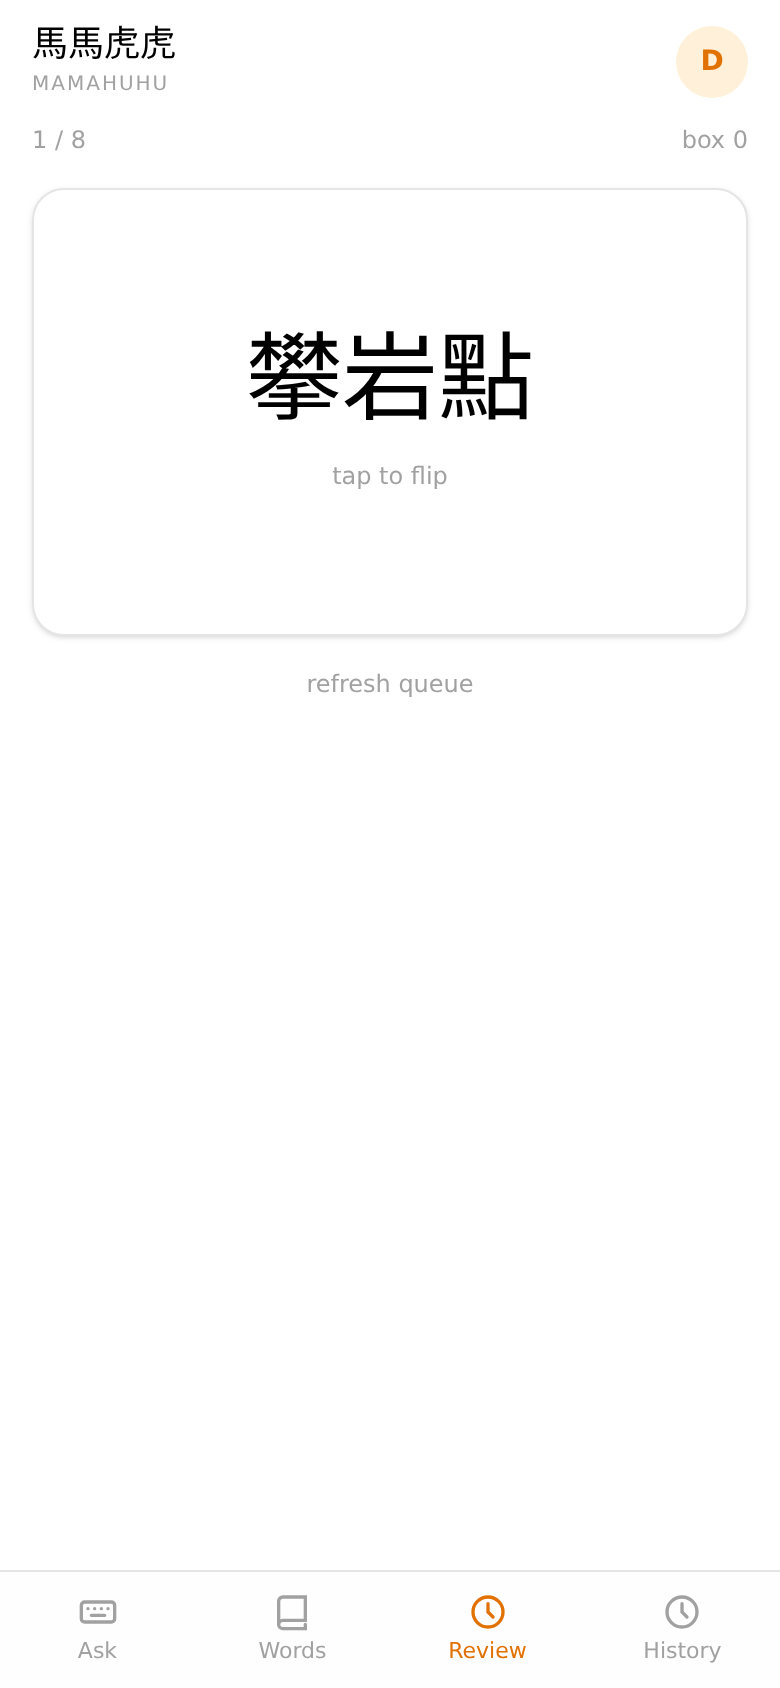
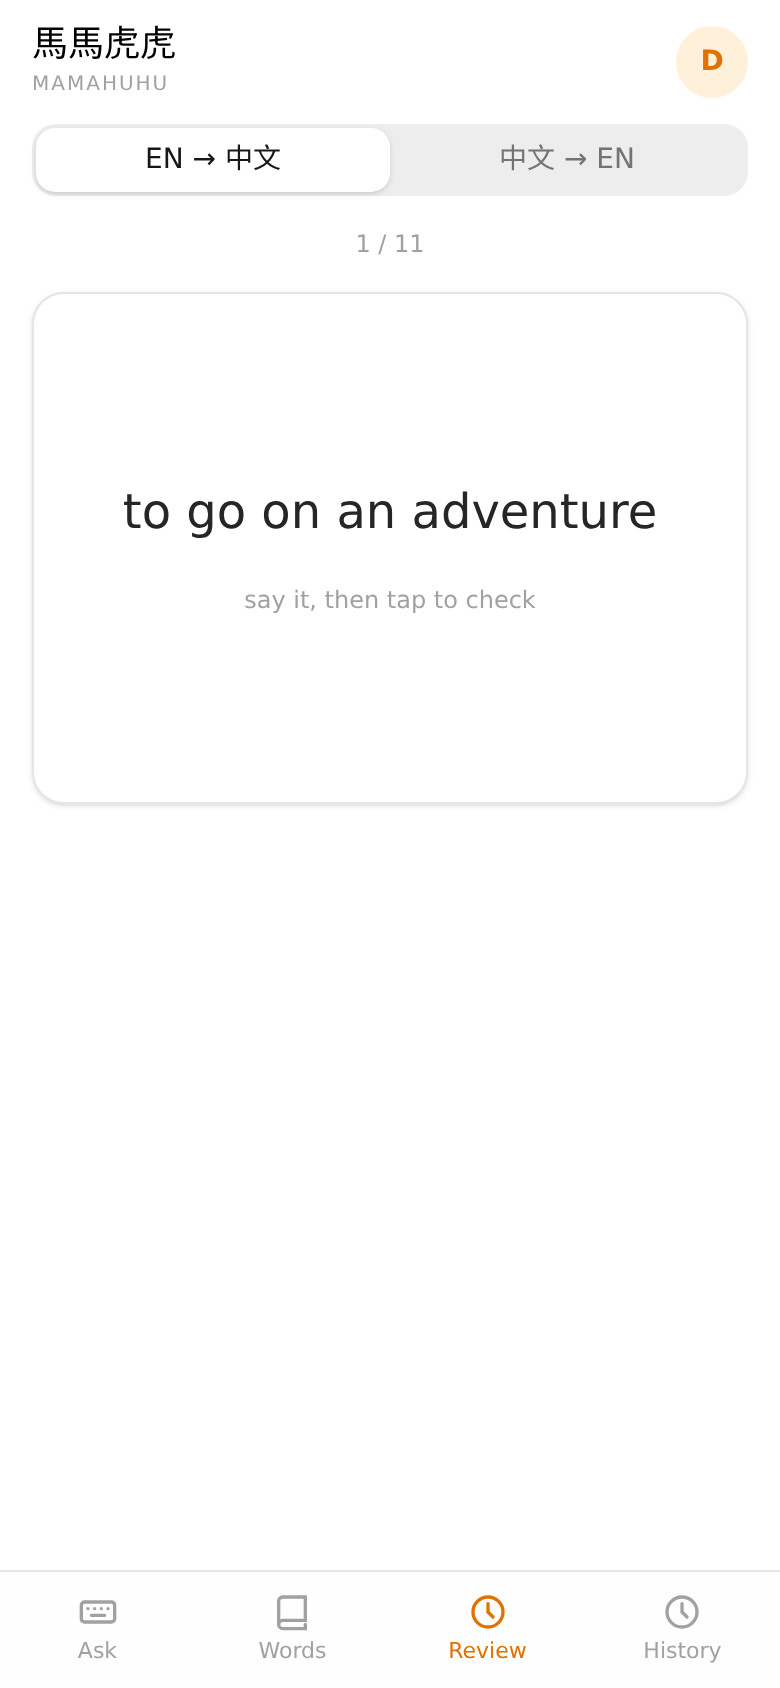
release v0.4.0: Cantonese variety (口語/書面 pairs, dictionary jyutping, edge-tts audio), variety-aware follow-ups w/ context, click-to-copy, tag search fixed + backfilled, ask routing, review redesign (two modes), screenshots

diff --git a/src/client/screens/SettingsSheet.tsx b/src/client/screens/SettingsSheet.tsx
@@ -96,7 +96,7 @@ export function SettingsSheet({ open, onClose }: { open: boolean; onClose: () =>
         {import.meta.env.DEV && <DevUserSwitcher />}
 
         <p className="text-center text-[11px] text-neutral-400">
-          Mamahuhu 馬馬虎虎 · v0.1
+          Mamahuhu 馬馬虎虎 · v0.4.0
           <br />
           identity comes from your reverse proxy ({me.name})
         </p>

diff --git a/README.md b/README.md
@@ -8,6 +8,7 @@ interactions.
 <div align="center">
   <img src="docs/ask-pinyin.png" width="200" alt="Ask: garbled pinyin interpreted" />
   <img src="docs/ask-translate.png" width="200" alt="Ask: English translation with registers" />
+  <img src="docs/ask-canto.png" width="200" alt="Ask: Cantonese (口語) with jyutping" />
   <img src="docs/photo-overlay.png" width="200" alt="Photo OCR word overlay" />
 </div>
 <div align="center">
